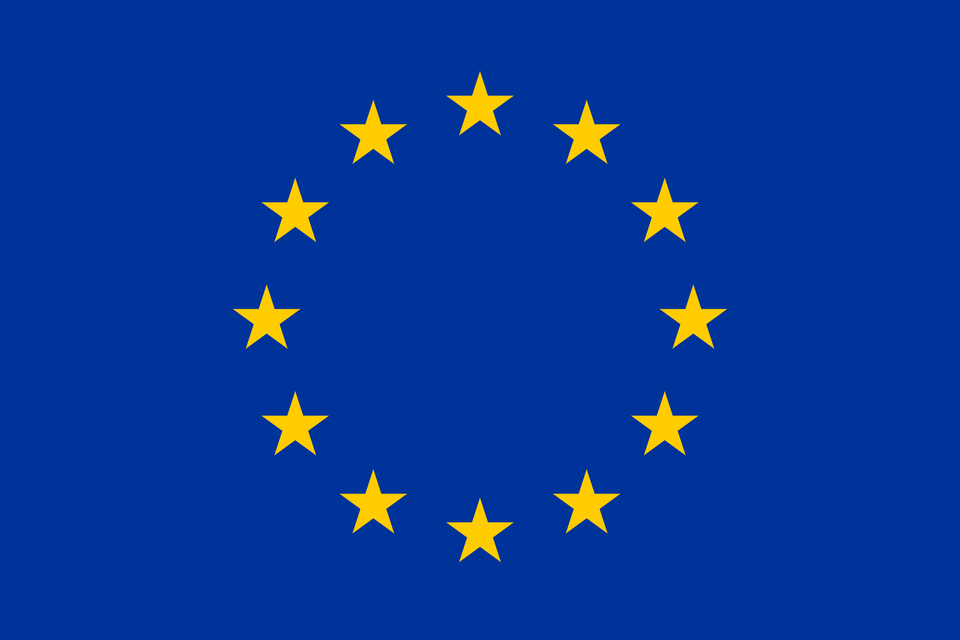
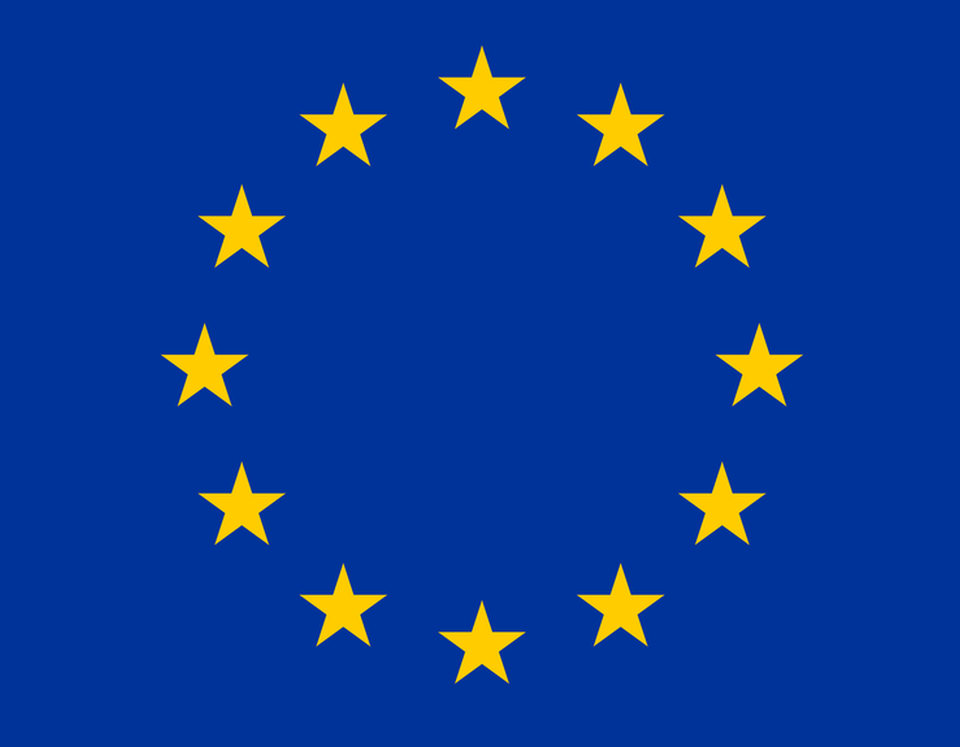
add

diff --git a/css/custom.css b/css/custom.css
@@ -66,7 +66,7 @@
 .my
 {
 	 height: 450px;
-	background: url("../images/europa.png") center no-repeat;
+	background: url("../images/europa1.jpg") center no-repeat;
     -webkit-background-size: cover;
     -moz-background-size: cover;
     -o-background-size: cover;
